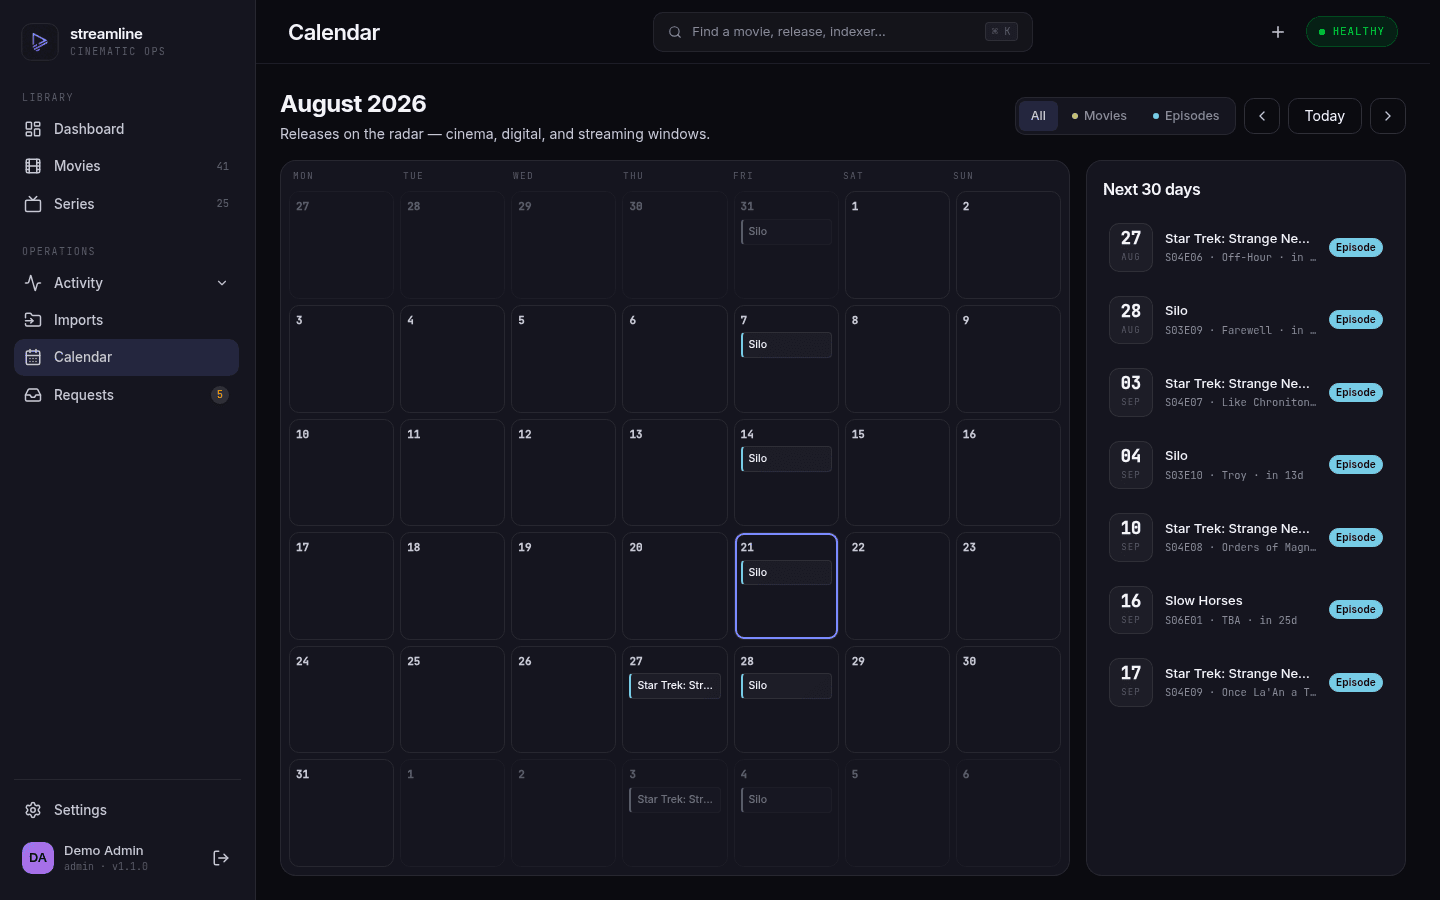
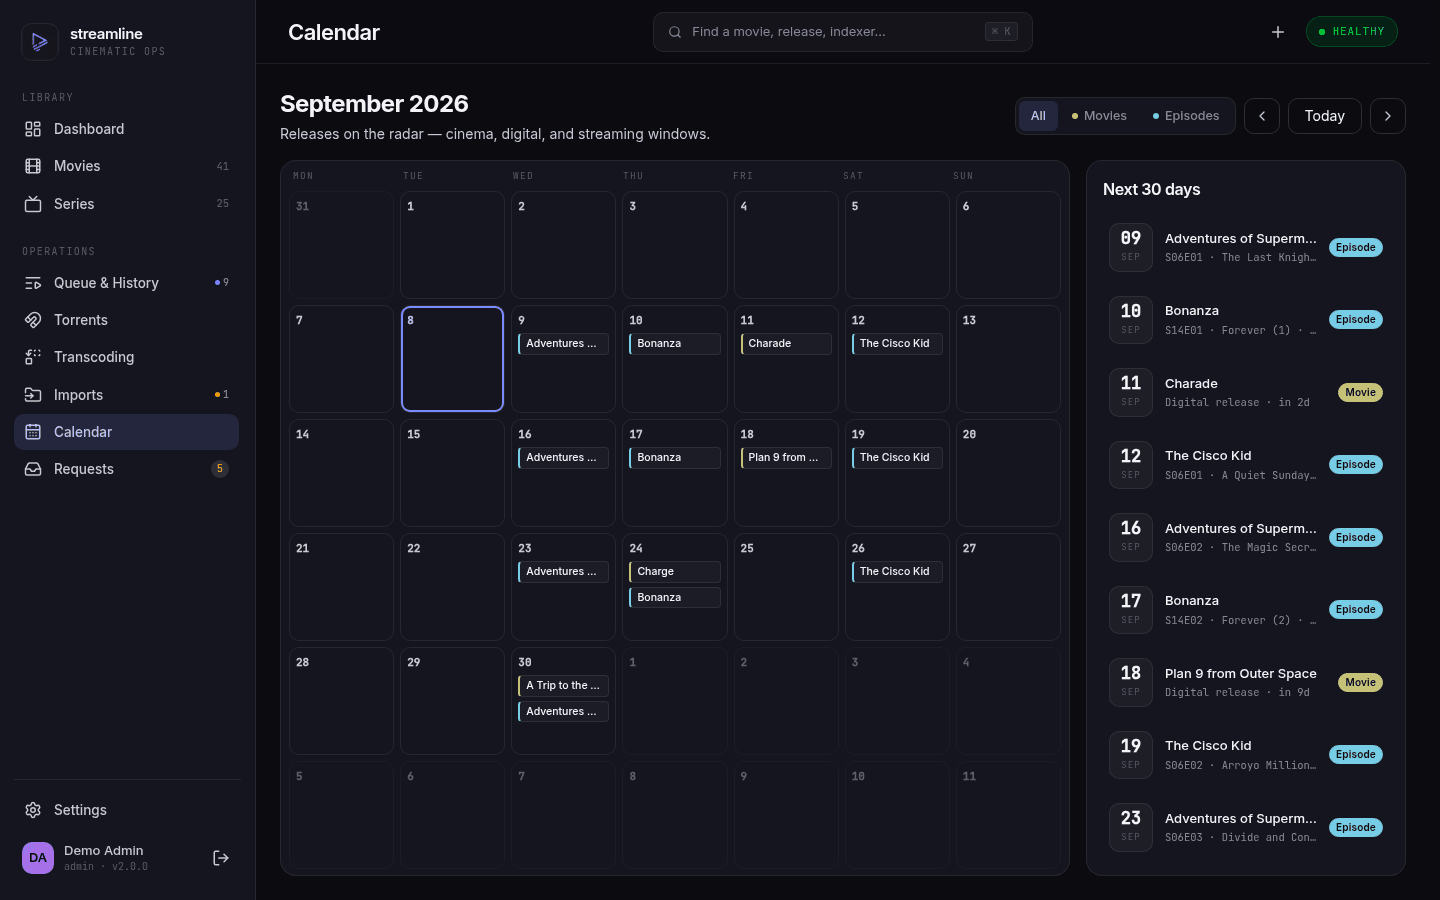
docs(readme): re-shoot screenshots on a public-domain demo library

diff --git a/README.md b/README.md
@@ -8,7 +8,7 @@
 
 Self-hosted unified media manager. Replaces the \*arr stack (Radarr, Sonarr, Lidarr, Readarr) and Seerr with a single binary.
 
-https://github.com/user-attachments/assets/9116fb45-1a25-414d-b79e-5fe83df25f6b
+https://github.com/user-attachments/assets/318e94d2-7571-4dda-96f6-f62bb4af8a46
 
 |  |  |
 | --- | --- |
@@ -421,11 +421,12 @@ Found a vulnerability? Don't open an issue — see [SECURITY.md](SECURITY.md).
 
 ## Screenshots
 
-> **The library shown in every screenshot and in the demo video is fabricated.** Titles, posters and
-> metadata come from public metadata providers; the "files" behind them do not exist. Streamline is a
-> library manager — it neither hosts nor distributes media. It does not endorse copyright
-> infringement or any other unlawful use, and the authors accept no responsibility for how you use
-> it. Obtaining content you have the right to is your responsibility.
+> **The library shown in every screenshot and in the demo video is fabricated.** Every title in it is
+> public domain or openly licensed — Blender Open Movies, silent and mid-century films whose copyright
+> has lapsed. Posters and metadata come from public metadata providers; the "files" behind them do not
+> exist. Streamline is a library manager — it neither hosts nor distributes media. It does not endorse
+> copyright infringement or any other unlawful use, and the authors accept no responsibility for how
+> you use it. Obtaining content you have the right to is your responsibility.
 
 |  |  |
 | --- | --- |
